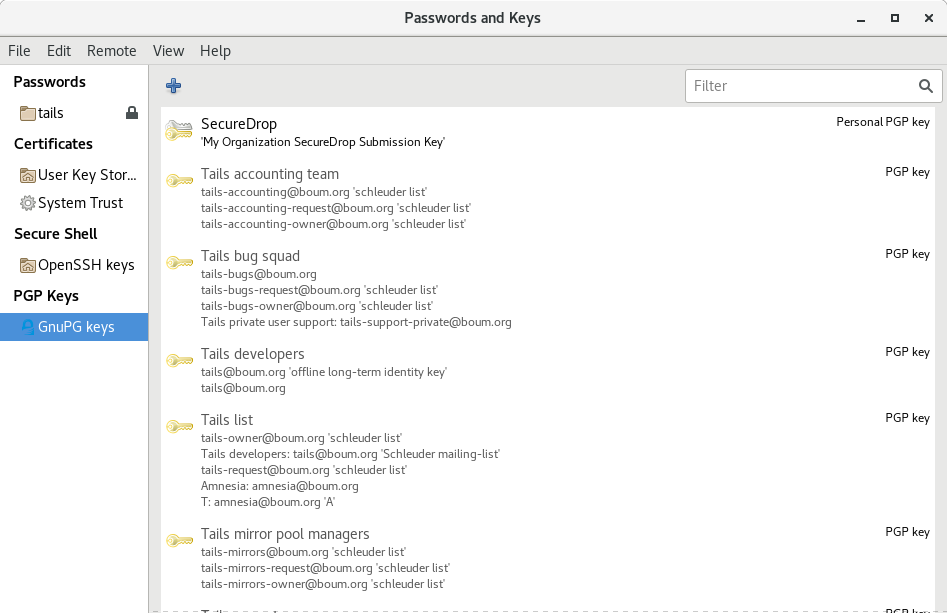
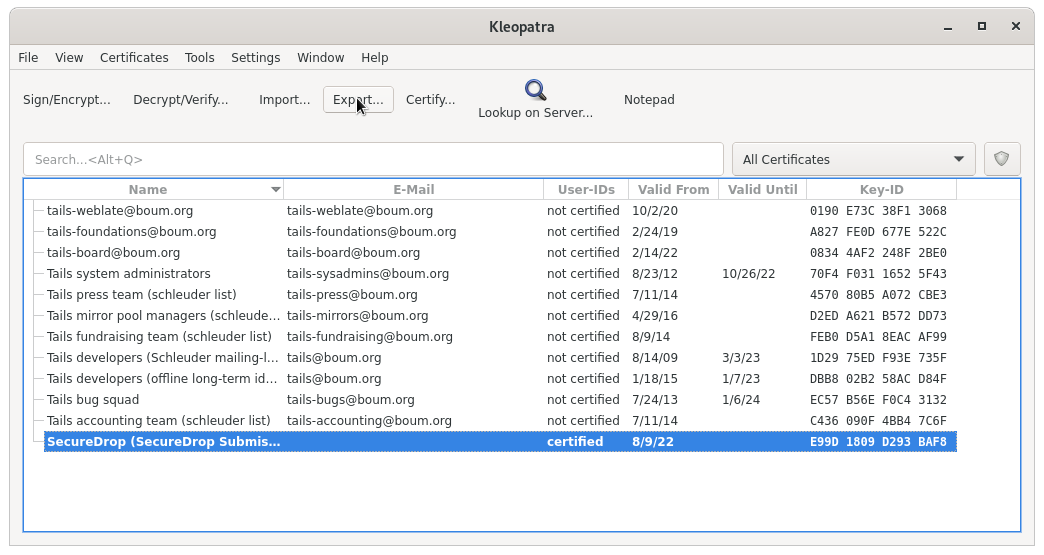
Added new screenshots and documentation to describe the changes in Tails 5.0. Fixes #347

diff --git a/docs/generate_submission_key.rst b/docs/generate_submission_key.rst
@@ -56,28 +56,28 @@ Create the Key
 Export the *Submission Public Key*
 ----------------------------------
 
-Navigate to **Applications ▸ Utilities ▸ Passwords and Keys** to open a
-graphical interface to manage GPG keys. Click the clipboard icon |gpgApplet|
-in the top right corner and select "Manage Keys". Click "GnuPG keys" and you
-should see the key that you just generated.
+Navigate to **Applications ▸ Utilities ▸ Kleopatra** to open a
+graphical interface to manage GPG keys. At the bottom of the list
+of keys, you will find the SecureDrop Submission Key you just created.
+
+Click to select the key, then click the "Export…" button in the toolbar
+above.
 
 |My Keys|
 
-#. Select the key you just generated and click "File" then "Export".
-#. Save the key to the *Transfer Device* as ``SecureDrop.asc``, and make
-   sure you change the file type from "PGP keys" to "Armored PGP keys" which
-   can be switched at the bottom of the Save window. Click the 'Export' button
-   after switching to armored keys.
+Save the key to the *Transfer Device* by changing the location to
+``/media/amnesia/Transfer Device``, then set the filename to 
+``SecureDrop.asc``. Once that is set, click the *Save* button to finish 
+exporting the key to the transfer device.
 
 .. note:: This is the public key only.
 
 |Export Key|
 
-|Export Key 2|
-
-You'll need to provide the fingerprint of this new key during the
-installation.  Double-click on the newly generated key and change to the
-*Details* tab. Write down the 40 hexadecimal digits under *Fingerprint*.
+After exporting the public key, you will be returned back to the list of keys.
+You'll need to provide the fingerprint of the *Submission Key* during the
+installation. Go ahead and double-click on the *Submission Key*, then
+write down the 40 hexadecimal digits under *Fingerprint*.
 
 |Fingerprint|
 
@@ -85,7 +85,7 @@ installation.  Double-click on the newly generated key and change to the
           screenshot.
 
 At this point, you are done with the *Secure Viewing Station* for now. You
-can shut down Tails, grab the *Admin Workstation* Tails USB and move over to your regular
+can shut down Tails, grab the *Admin Workstation* Tails USB, and move over to your regular
 workstation.
 
 .. |GPG generate key| image:: images/install/run_gpg_gen_key.png
@@ -94,6 +94,5 @@ workstation.
 .. |gpgApplet| image:: images/gpgapplet.png
 .. |My Keys| image:: images/install/keyring.png
 .. |Export Key| image:: images/install/exportkey.png
-.. |Export Key 2| image:: images/install/exportkey2.png
 .. |Fingerprint| image:: images/install/fingerprint.png
 .. |Terminal| image:: images/terminal.png
